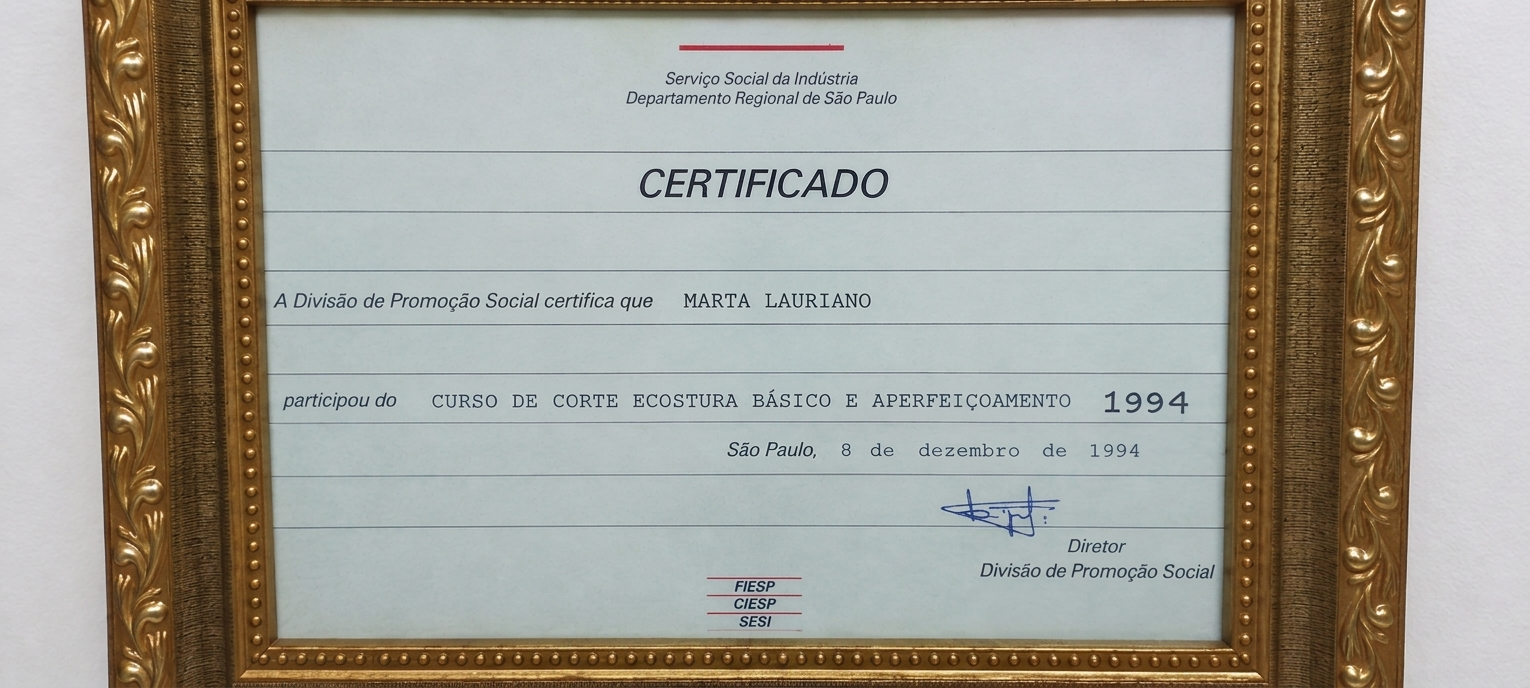
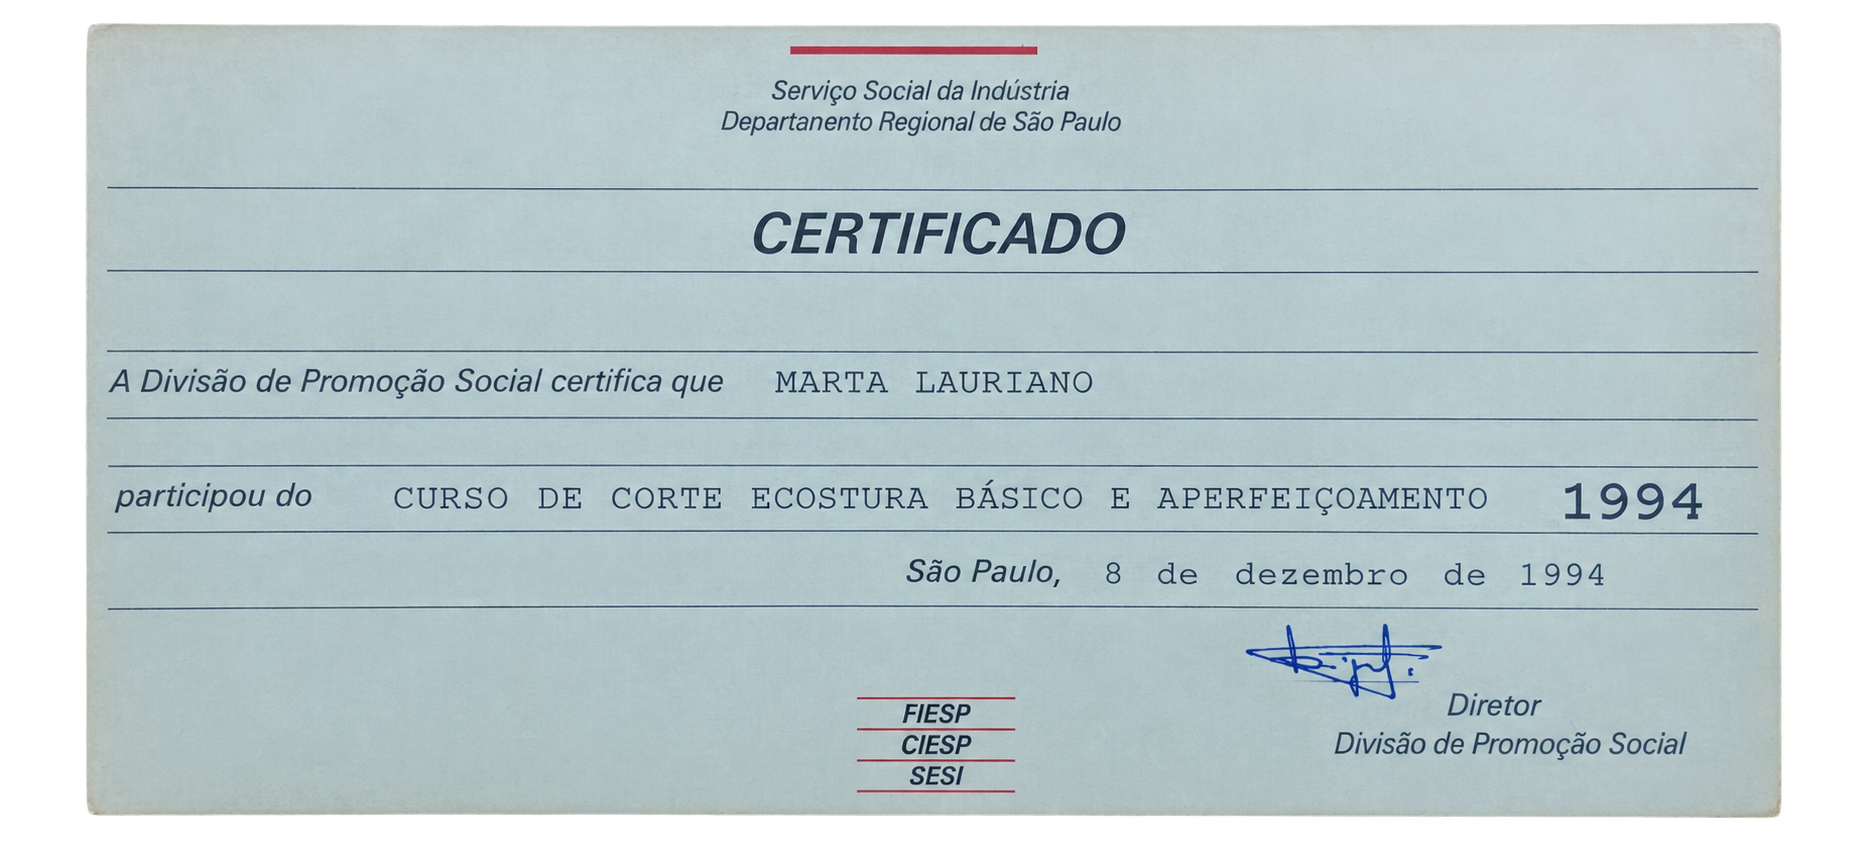
Add files via upload

diff --git a/index.html b/index.html
@@ -12,45 +12,47 @@
 
 
 <style>
-h2{font-family:"Bilbo Swash Caps",serif;font-size:30px}
+h2{font-family:"Bilbo Swash Caps",serif;font-size:40px}
 h1{font-family:"Great Vibes",serif;font-size:70px}
 
-body{background-image:url("Flor de fundo do site.jpg");color:white;background-size:cover;background-repeat:no repeat;background-attachment:fixed;background-position:center}
+body{background-image:url("Flor de fundo do site.png");color:white;background-size:cover;background-repeat:no repeat;background-attachment:fixed;background-position:center}
 a{color:Gold}
-img{border:5px solid white} </style></head>
+img{border:5px solid none} </style></head>
 
-<p><h1><span style="color:purple">Costuras da Martinha</span></h1>
-<p><h2><span style="color:Gold">Com experiência na área de costura</p>
+<img src="Logo Costuras da Martinha.png" width="100%">
+
+
+<p><h2><span style="color:white">Com experiência na área de costura</p>
 <p>desde 1994, Marta Lauriano construiu</p>
 <p>uma trajetória de dedicação, qualidade</p>
 <p>e compromisso com cada trabalho realizado.</p></h2>
 
-<body><h1><a href="https://wa.me/5519991768072"><br><h2><span style="color:white">Whats app:(19)991768072</a></span></h2>
-<p><a href="https://www.google.com.br/maps/dir/-23.053448,-47.0130342/13285-880,+R.+Jo%C3%A3o+Luis+Rodrigues+-+Capela,+Vinhedo+-+SP/@-23.05406,-47.0128363,21z/data=!4m8!4m7!1m0!1m5!1m1!1s0x94cf32e4f0ea3857:0xa990326e3dda46ef!2m2!1d-47.0125546!2d-23.05406?entry=ttu&g_ep=EgoyMDI2MTAxOS4wIKXMDSoASAFQAw%3D%3D"><h2><span style="color:white">Localizado na Rua joão Luiz Rodriguez n°9 no Bairro vida nova 3.</a></h2</span>></p>
-</p><h1><span style="color:Purple;">Nossos serviços</span></h1>
+<body><h1><a href="https://wa.me/5519991768072"><br><h2><span style="color:Cyan">Whats app:(19)991768072</a></span></h2>
+<p><a href="https://www.google.com.br/maps/dir/-23.053448,-47.0130342/13285-880,+R.+Jo%C3%A3o+Luis+Rodrigues+-+Capela,+Vinhedo+-+SP/@-23.05406,-47.0128363,21z/data=!4m8!4m7!1m0!1m5!1m1!1s0x94cf32e4f0ea3857:0xa990326e3dda46ef!2m2!1d-47.0125546!2d-23.05406?entry=ttu&g_ep=EgoyMDI2MTAxOS4wIKXMDSoASAFQAw%3D%3D">
+<h2><span style="color:cyan">Localizado na Rua joão Luiz Rodriguez n°9 no Bairro vida nova 3.</a></h2</span>></p>
 
 
-<img src="Costura.jpg.jpg" width="500px" id="CosturaID" onclick="AmpliarCostura()">
+<img src="Nossos serviços Titulo.png" width="100%" id="CosturaID" onclick="AmpliarCostura()">
 <script>function AmpliarCostura(){const imagem=document.getElementById("CosturaID")
 if(imagem.style.width==="500px"){imagem.style.width="100%"}else{imagem.style.width="500px"}} </script>
 
-<ul><p><h2><li><span style="color:Gold">Reparos em roupas</span></p>
-<p><li><span style="color:Gold">Ajustes de roupas/Trocas de ziperes</li></span></p>
-<p><li><span style="color:Gold">Barra comum/Barra original de calça jeans</li></span></p>
-<li><span style="color:Gold">Diminuição de gancho</li></span></p>
-<p><li><span style="color:Gold">Barra de vestido de festa(bainha lenço)</li></span></p>
-<p><li><span style="color:Gold">Troca de elastico (Shorts/Calças)</li></p></ul></body></span></h2>
+<ul><p><h2><li><span style="color:white">Reparos em roupas</span></p>
+<p><li><span style="color:white">Ajustes de roupas/Trocas de ziperes</li></span></p>
+<p><li><span style="color:white">Barra comum/Barra original de calça jeans</li></span></p>
+<li><span style="color:white">Diminuição de gancho</li></span></p>
+<p><li><span style="color:white">Barra de vestido de festa(bainha lenço)</li></span></p>
+<p><li><span style="color:white">Troca de elastico (Shorts/Calças)</li></p></ul></body></span></h2>
 
 
-<img src="Certificado.jpg" width="500px" id="CertificadoID" onclick="AmpliarImagem()">
+<img src="Certificado.jpg" width="100%" id="CertificadoID" onclick="AmpliarImagem()">
 <script>function AmpliarImagem(){const imagem=document.getElementById("CertificadoID")
 if(imagem.style.width==="500px"){imagem.style.width="100%"}else{imagem.style.width="500px"}} </script>
 
 
 
 <ul>
-<h1><span style="color:Purple">Costuras da Martinha</span></h1>
-<h2><span style="color:Gold"><p>Oferecendo serviços com atenção aos detalhes
-dedicação e cuidado em cada peça.</span>
-<br><h2><span style="color:Gold">experiência, qualidade e carinho em cada costura!</span></p></h2>
+<h1><span style="color:Gold">Costuras da Martinha</span></h1>
+<h2><span style="color:white"><p>Oferecendo serviços com atenção aos detalhes
+<br>dedicação e cuidado em cada peça.</br></span>
+<br><h2><span style="color:white">experiência, qualidade e carinho em cada costura!</span></p></h2>
 </html>
